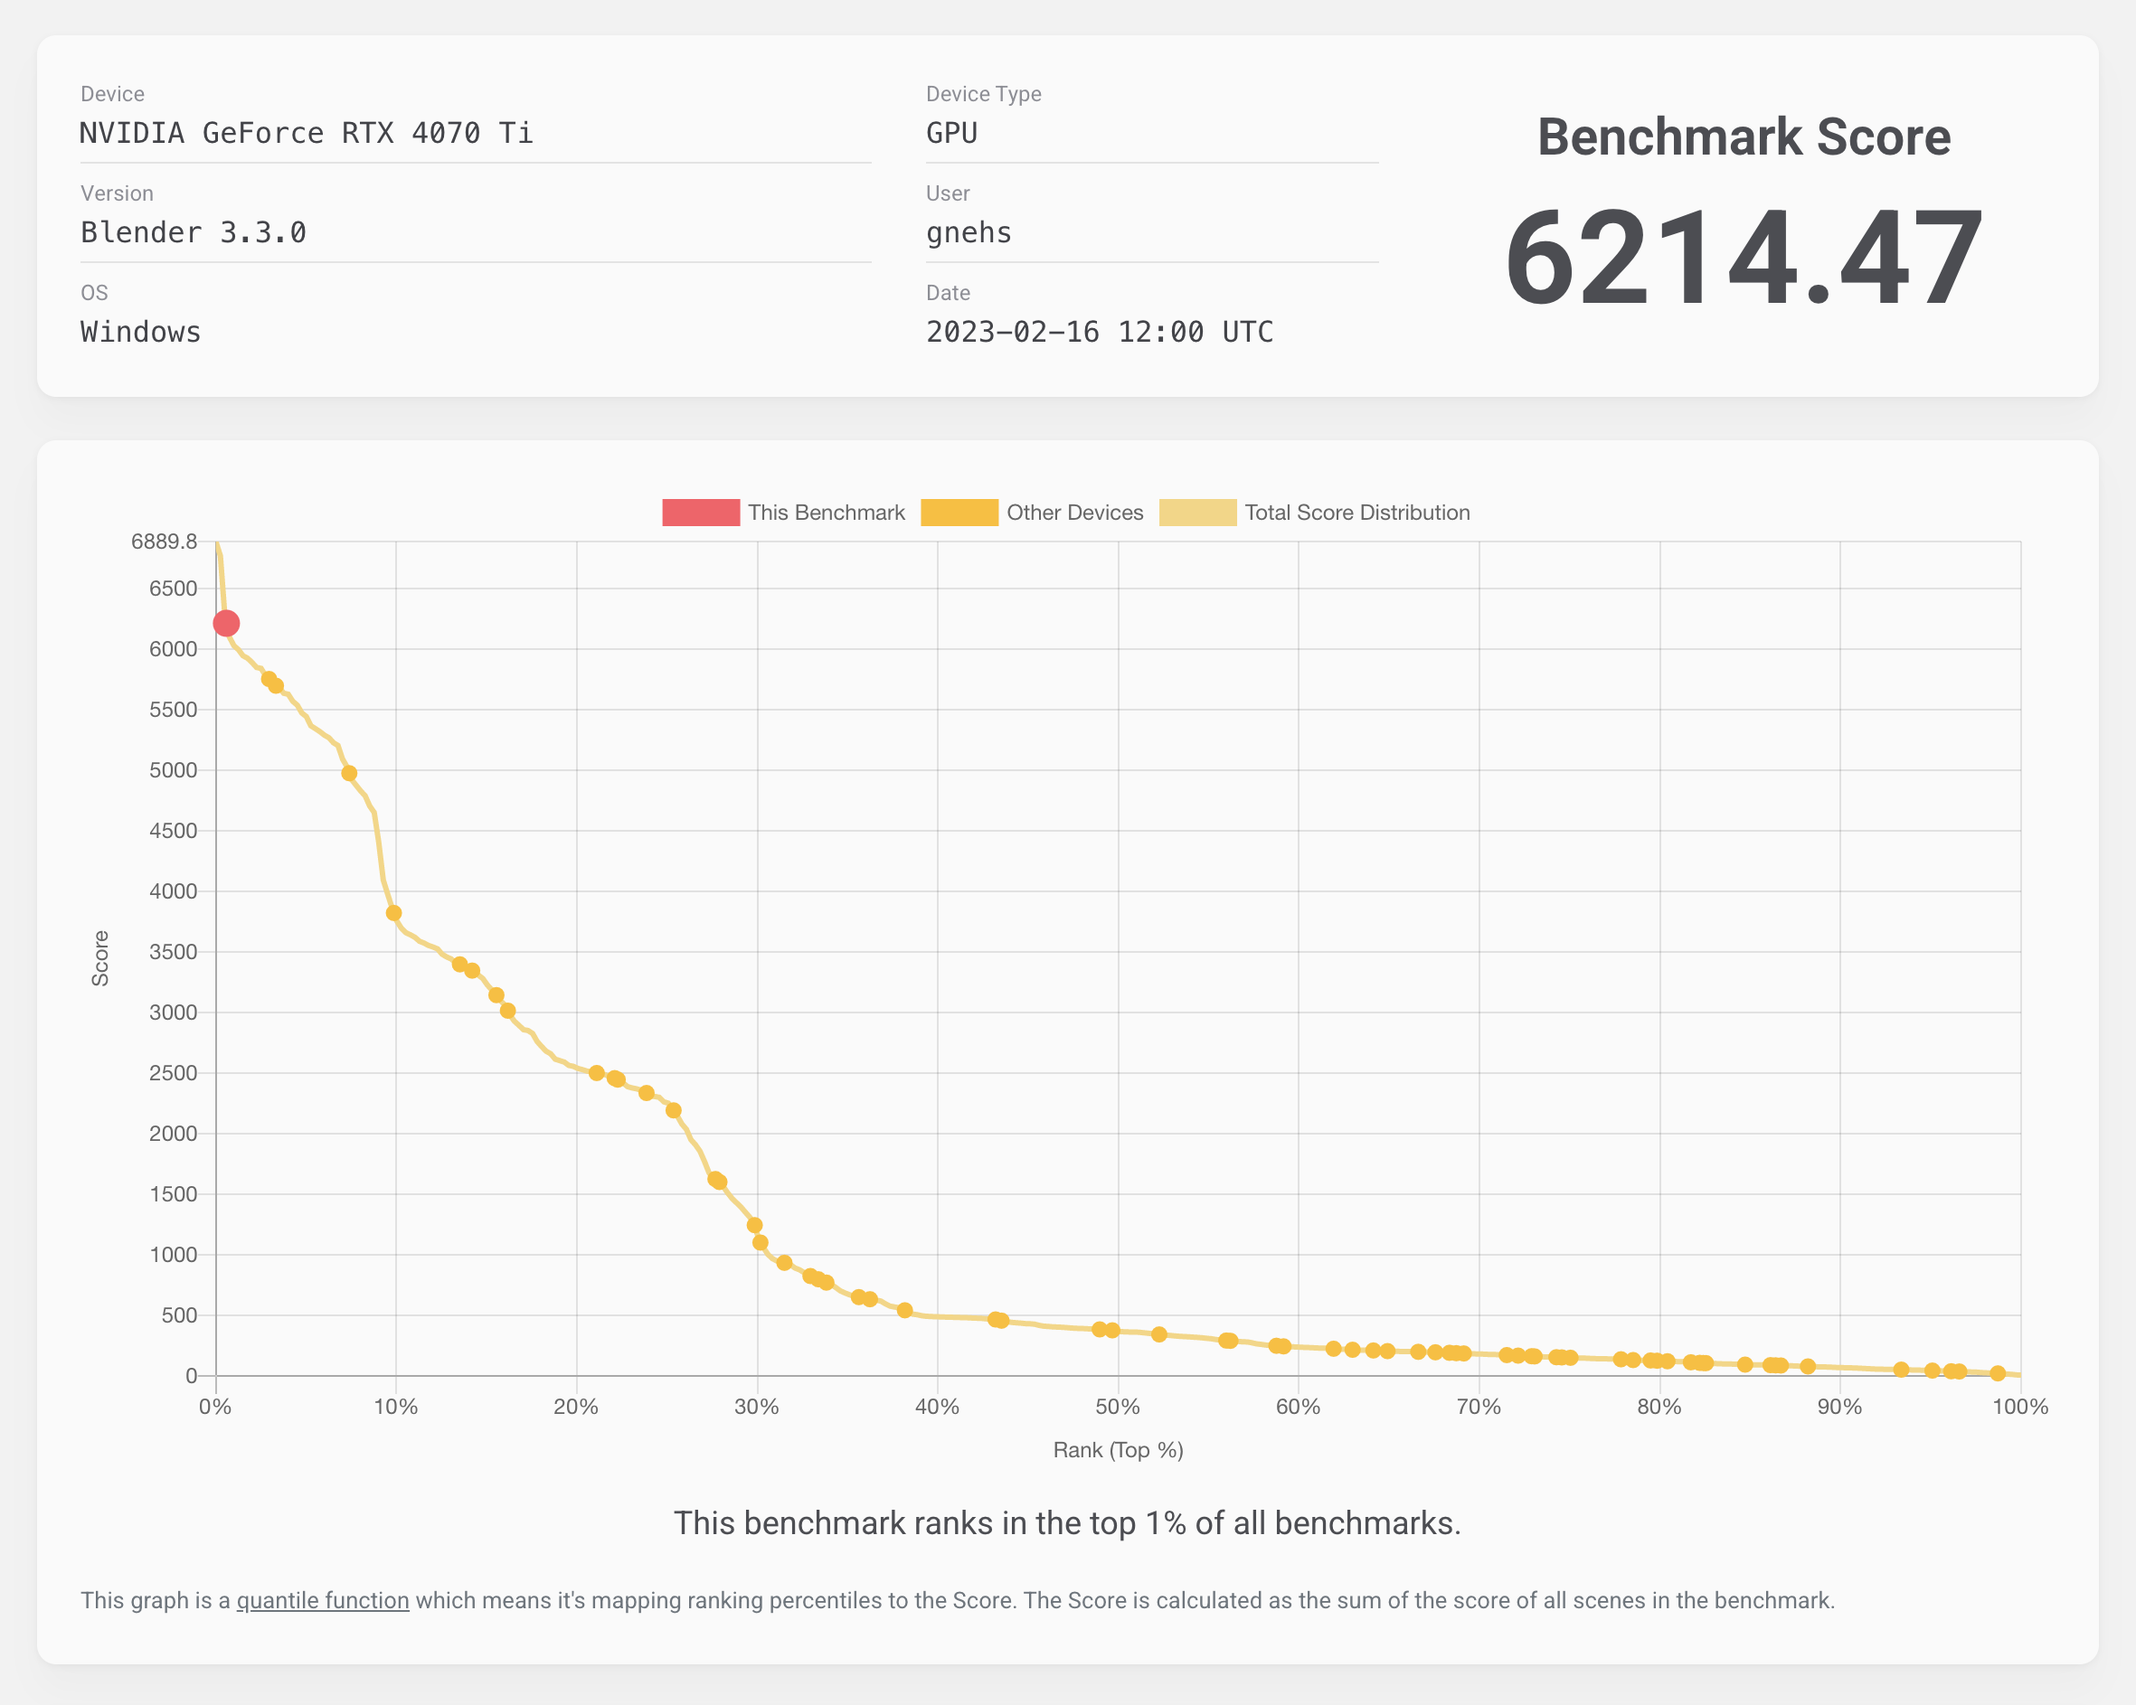
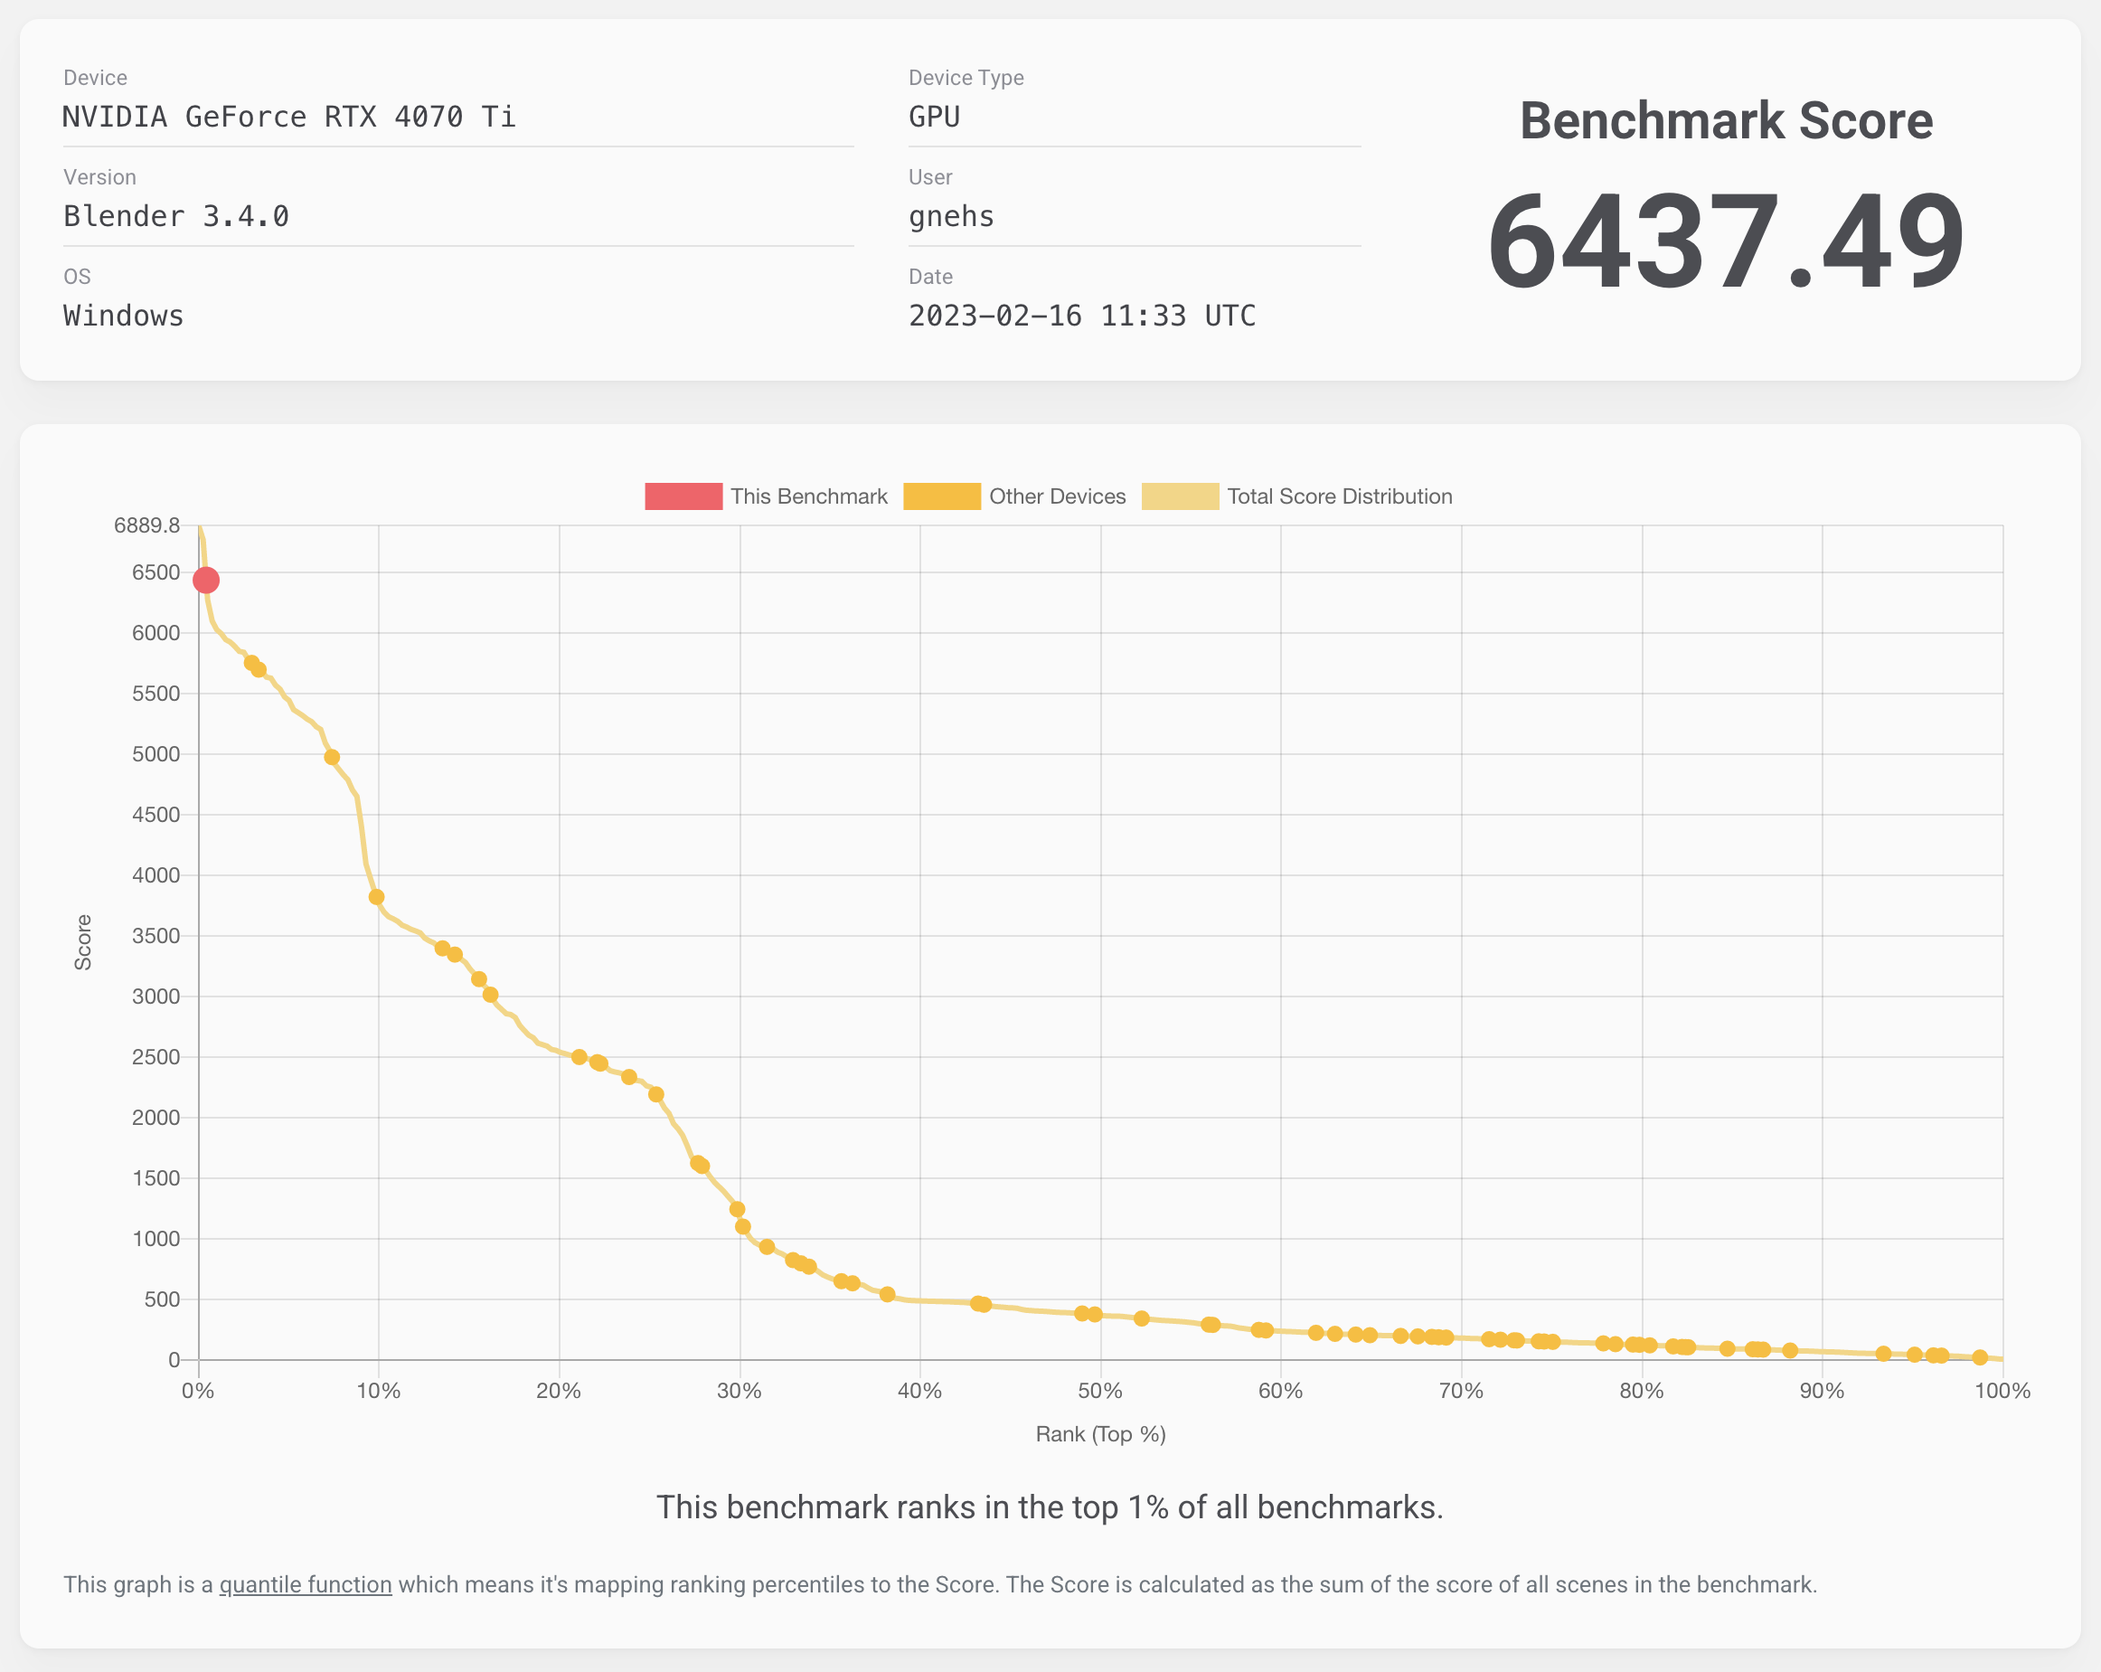
updated 2023-pc

diff --git a/content/posts/Hardware/2023-pc.md b/content/posts/Hardware/2023-pc.md
@@ -9,32 +9,36 @@ categories: ['Hardware']
 為了進入夢想中的學校，勝勝花了重金購買了新的電腦，所以想記錄一下在 2023 年 2 月的當下，組裝電腦到底花了多少錢。
 <!--more-->
 # 購買零件
-因為 PChome 算上信用卡回饋後比原價屋便宜，因此大部分的零件在 PChome 購買，另外顯卡的部分 PChome 沒貨所以在 momo 購買。
+因為 PChome 算上回饋後比原價屋便宜，因此大部分的零件在 PChome 購買，如果你不想自己組電腦的話可以去原價屋買，他們會幫你組好。
+
+顯卡的部分 PChome 沒貨所以在 momo 購買。
 
 | 零件 | 型號 | 價格 |
 | --- | --- | ---: |
-| CPU | Intel Core i5-13400F | $6,999 |
-| 主機板 | 微星 MAG B660 TOMAHAWK WIFI | $5,788 |
-| 記憶體 | 金士頓 Kingston FURY Beast 獸獵者 DDR5 5200 32GB | $3,765 |
-| SSD | WD 黑標 SN770 1TB NVMe M.2 PCIe SSD | $2,460 |
-| 機殼 | Fractal Design Define 7 Compact White Solid | $3,890 |
-| 電源 | FSP 全漢 HGT-1000,GEN5 1000W 80PLUS 金牌 | $4,490 |
+| **CPU** | Intel Core i5-13400F | $6,999 |
+| **主機板** | 微星 MAG B660 TOMAHAWK WIFI | $5,788 |
+| **記憶體** | 金士頓 FURY Beast 獸獵者 DDR5 5200 32GB | $3,765 |
+| **SSD** | WD 黑標 SN770 1TB NVMe M.2 PCIe SSD | $2,460 |
+| **機殼** | Fractal Design Define 7 Compact White Solid | $3,890 |
+| **電源** | FSP 全漢 HGT-1000,GEN5 1000W 80PLUS 金牌 | $4,490 |
 | | PChome 全漢電源送 P 幣 | ($225) |
 | | PChome 遲到現金積點 | ($100) |
 | | 玉山 Pi 信用卡回饋（PChome） | ($1,370) |
 | | ShopBack 回饋 | ($274) |
-| 顯卡 | 微星 GeForce RTX 4070 Ti VENTUS 3X 12G OC | $28,990 |
+| **顯卡** | 微星 RTX 4070 Ti VENTUS 3X 12G OC | $28,990 |
 | | Cube 信用卡回饋（momo） | ($870) |
 | | 總計 | $58,223 |
 
 ## 備註
 全漢電源送來的包裝有夠臭，另外我以為 PChome 會是最早來的，結果遲到隔天才來，意外的 momo 來超快，但是 momo 每十五分就登出我的帳號，用起來好煩。
+# 差點翻車
+因為我買的是 B660 主機板，如果 BIOS 太舊的話會沒辦法用 13 代的 CPU 開機，害我超緊張，不過還好送來的主機板出廠日期夠晚，已經升上新版 BIOS 了，不然我就要翻車了。
 
 # 組裝
 組裝的部分我在網路上看到了 [【装机教程】全网最好的装机教程，没有之一。](https://youtu.be/ST65L4pG_6w) 的教學，裡面動畫很清楚，組裝上沒遇到什麼大問題。
 
 # 顯卡的超頻與跑分
-下圖是超頻前後的分數，勝勝用了 Afterburner 做了軟體內的自動超頻，分數提升了大概一千分，勝勝覺得不錯。
+下面兩張圖是 Blender Benchmark 在超頻前後的分數，勝勝用了 Afterburner 做了軟體內的自動超頻，分數提升了 796 分，勝勝覺得不錯。
 ![](/img/SCR-20230222-fou.png)
 ![](/img/SCR-20230222-fp0.png)
 ## 備註
